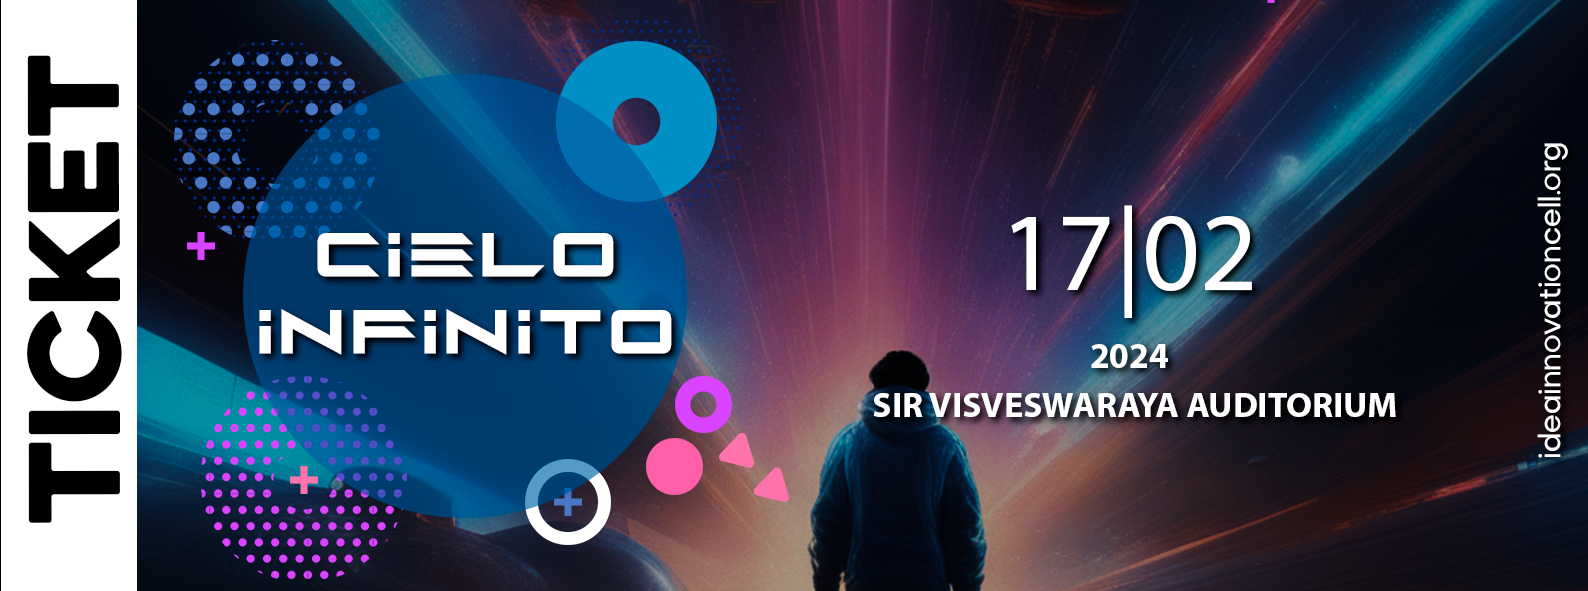
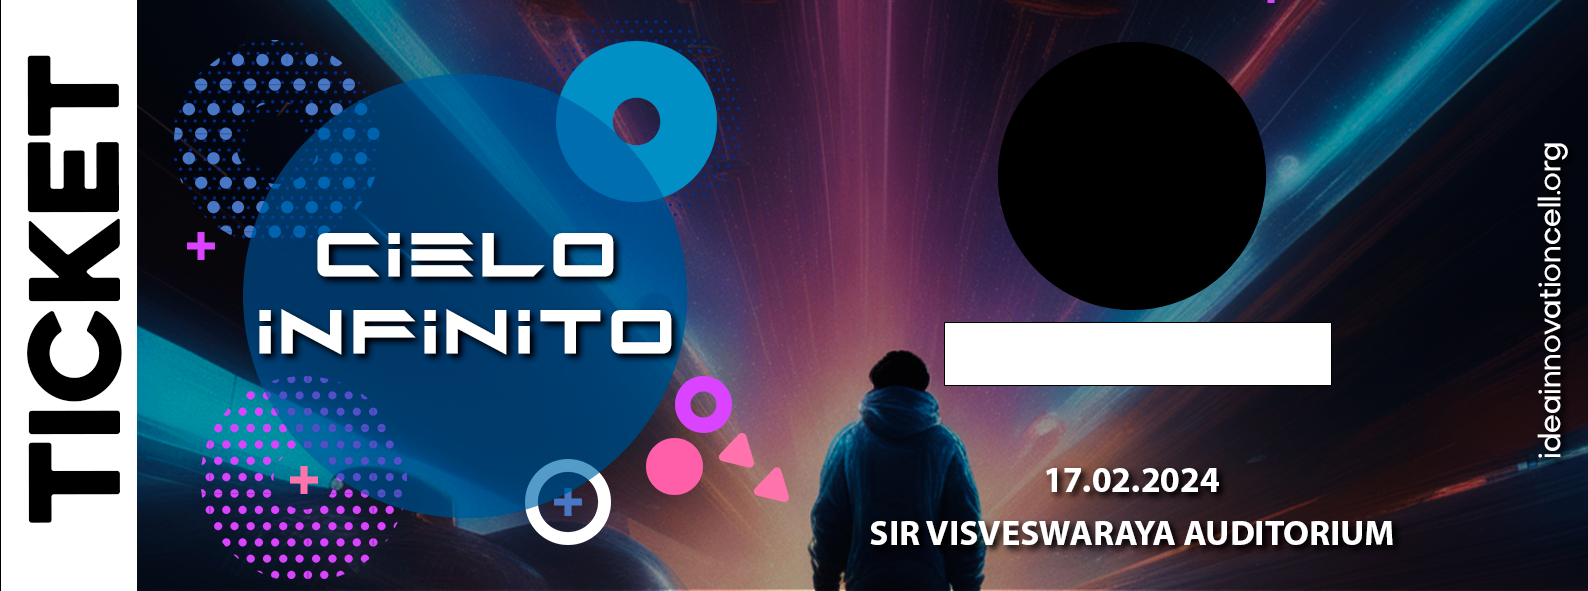
css

diff --git a/src/Pages/ticket/Ticket.jsx b/src/Pages/ticket/Ticket.jsx
@@ -67,11 +67,11 @@ const Ticket = () => {
   
         tempContext.drawImage(originalImage, 0, 0);
   
-        tempContext.fillStyle = "white";
+        tempContext.fillStyle = "black";
         tempContext.font = "bold 48px sans-serif";
         tempContext.textAlign = "center";
         tempContext.textBaseline = "middle";
-        tempContext.fillText(displayedName, 1100, 475);
+        tempContext.fillText(displayedName, 1120, 350);
   
         // Save the current context state
         tempContext.save();
@@ -161,6 +161,7 @@ const Ticket = () => {
                         maxWidth: '50%',
                         maxHeight: '50%',
                         objectFit: 'contain',
+                        display:"none"
                       }}
                     />
                   </div>
